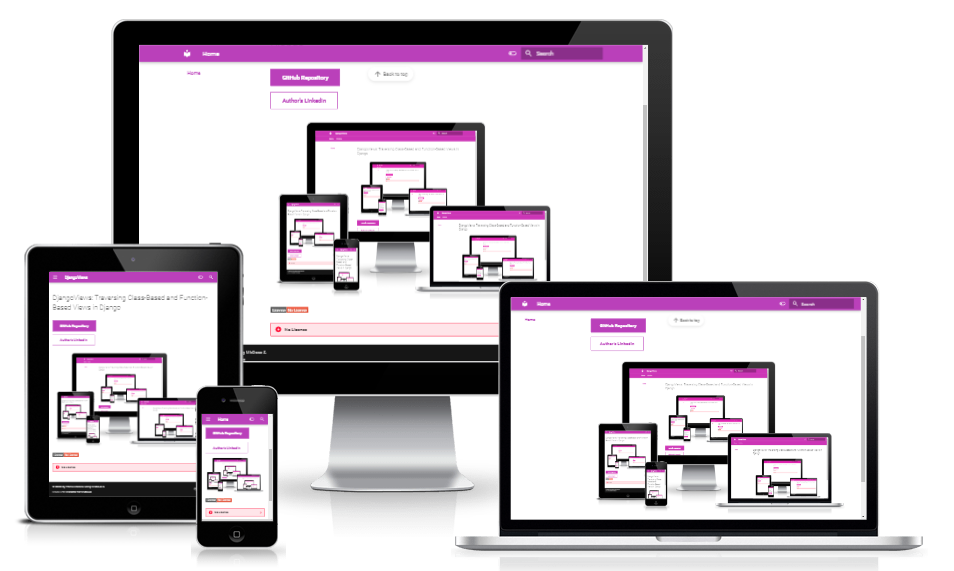
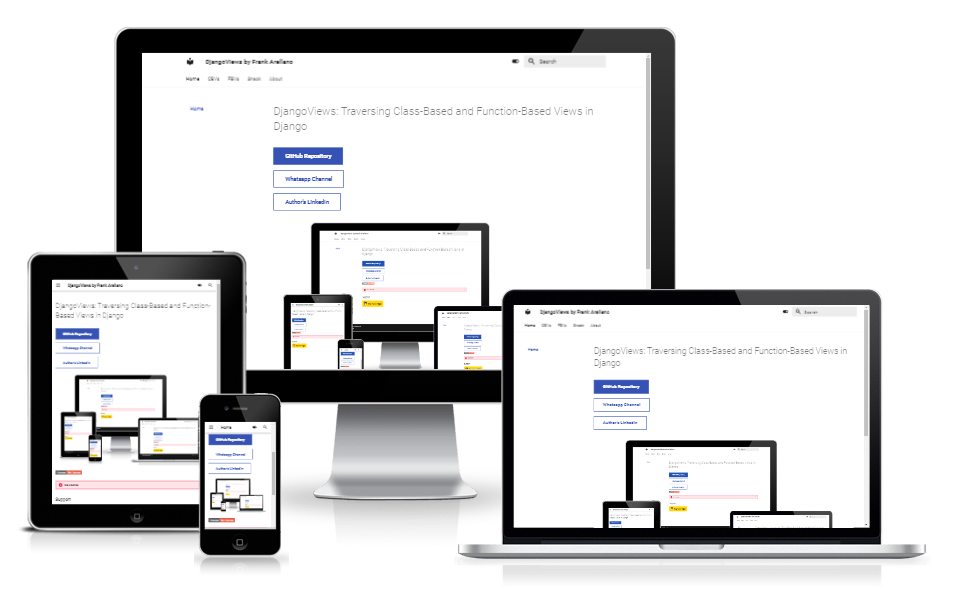
docs: add short description to the main redme file

Changed region(s): [[0.0, 0.0298, 0.9727, 0.9825], [0.1824, 0.1786, 0.2128, 0.2084]]

diff --git a/docs/snack/initialize/initial.md b/docs/snack/initialize/initial.md
@@ -1,4 +1,7 @@
-## Setting Up Your Project Using Gitpod and Code Institute's Template
+## Setting Up Your Project
+
+???+ note "CLI/Bash"
+    Please note how we make use of Gitpod CLI (Command-line interface) or Bash throughout the process.
 
 ### Initial Setup
 
@@ -8,6 +11,7 @@
 
     ```bash
     pip3 install 'django<4' gunicorn psycopg2
+    # `gunicorn` & `psycopg2` are optional
     ```
 
 ### Installing MkDocs and Dependencies
@@ -27,7 +31,7 @@
     pip3 freeze > requirements.txt
     ```
 
-3. **Test MkDocs**: Ensure everything is working as expected.
+3. **Test MkDocs**: Ensure everything is working as expected, if not, reinstall Django, mkdocs & mkdocs-material.
 
     ```bash
     mkdocs serve
@@ -35,7 +39,7 @@
 
 ---
 
-## Setting Up GitHub Actions for Mkdocs Automated Deployment
+## Setting Up GitHub Actions
 
 ### Create GitHub Actions Workflow
 
@@ -63,7 +67,7 @@
     cd ..
     ```
 
-5. **Create `ci.yml` File**: This file defines your CI/CD pipeline.
+5. **Create `ci.yml` File**: This file defines your CI (Continuous Integration)/CD (Continuous Deployment/Delivery) pipeline.
 
     ```bash
     touch ci.yml

diff --git a/docs/snack/overview.md b/docs/snack/overview.md
@@ -1,3 +1,8 @@
-Lala
+Developer's Snack is a section I developed over time because I found that various rules, standards, and code snippets were easy to forget. For that reason, I decided to create guidelines and extra documentation for myself, where I could return for that knowledge or inspiration. That's how Developer's Snack came into existence, and since then, I've applied the same section to all my projects.
+
+As you can see in the navbar of this section, there are different entries that are useful not only for me but for the entire community as well.
+
+Feel free to navigate around and find what you need!
+
 <h3 align="left">Support</h3>
 <p><a href="https://www.buymeacoffee.com/plexo.io" rel="noopener noreferrer" target="_blank"> <img align="left" src="https://cdn.buymeacoffee.com/buttons/v2/default-yellow.png" height="50" width="210" alt="plexo.io" /></a></p>

diff --git a/README.md b/README.md
@@ -1,6 +1,9 @@
 # DjangoViews: Traversing Class-Based and Function-Based Views in Django
+I meticulously analyze my own code, with a preference for using OOP through class-based views. However, I'm working as well with function-based views.
 
-![Responsive Mockup image](https://github.com/plexoio/djangoviews/blob/main/docs/assets/img/mockup.png)
+The aim of this repository/channel is to foster attention to detail, enhance comprehension, and promote versatility in Python coding, specifically within the Django framework.
+
+To prevent the feeling of being overwhelmed, commonly experienced on other social platforms, I employ progressive disclosure and get straight to the point.
 
 ## Full Documentation
 

diff --git a/docs/credits/credits.md b/docs/credits/credits.md
@@ -1,0 +1,2 @@
+<h3 align="left">Support</h3>
+<p><a href="https://www.buymeacoffee.com/plexo.io" rel="noopener noreferrer" target="_blank"> <img align="left" src="https://cdn.buymeacoffee.com/buttons/v2/default-yellow.png" height="50" width="210" alt="plexo.io" /></a></p>
